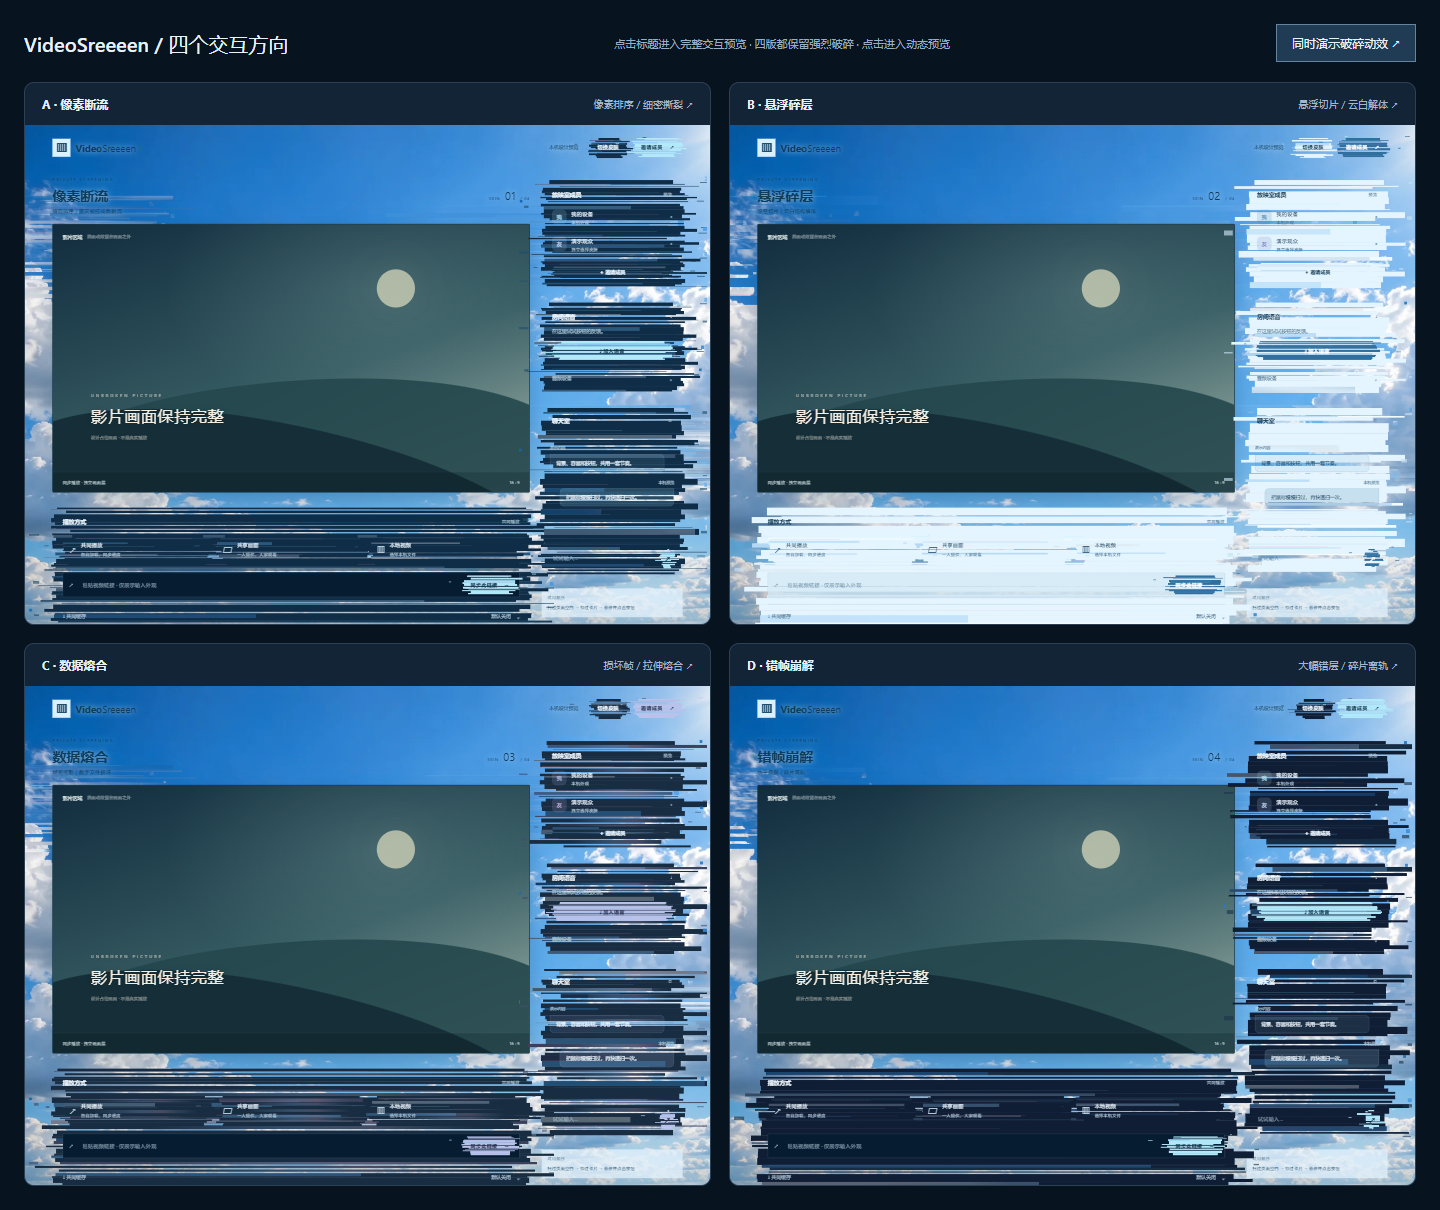
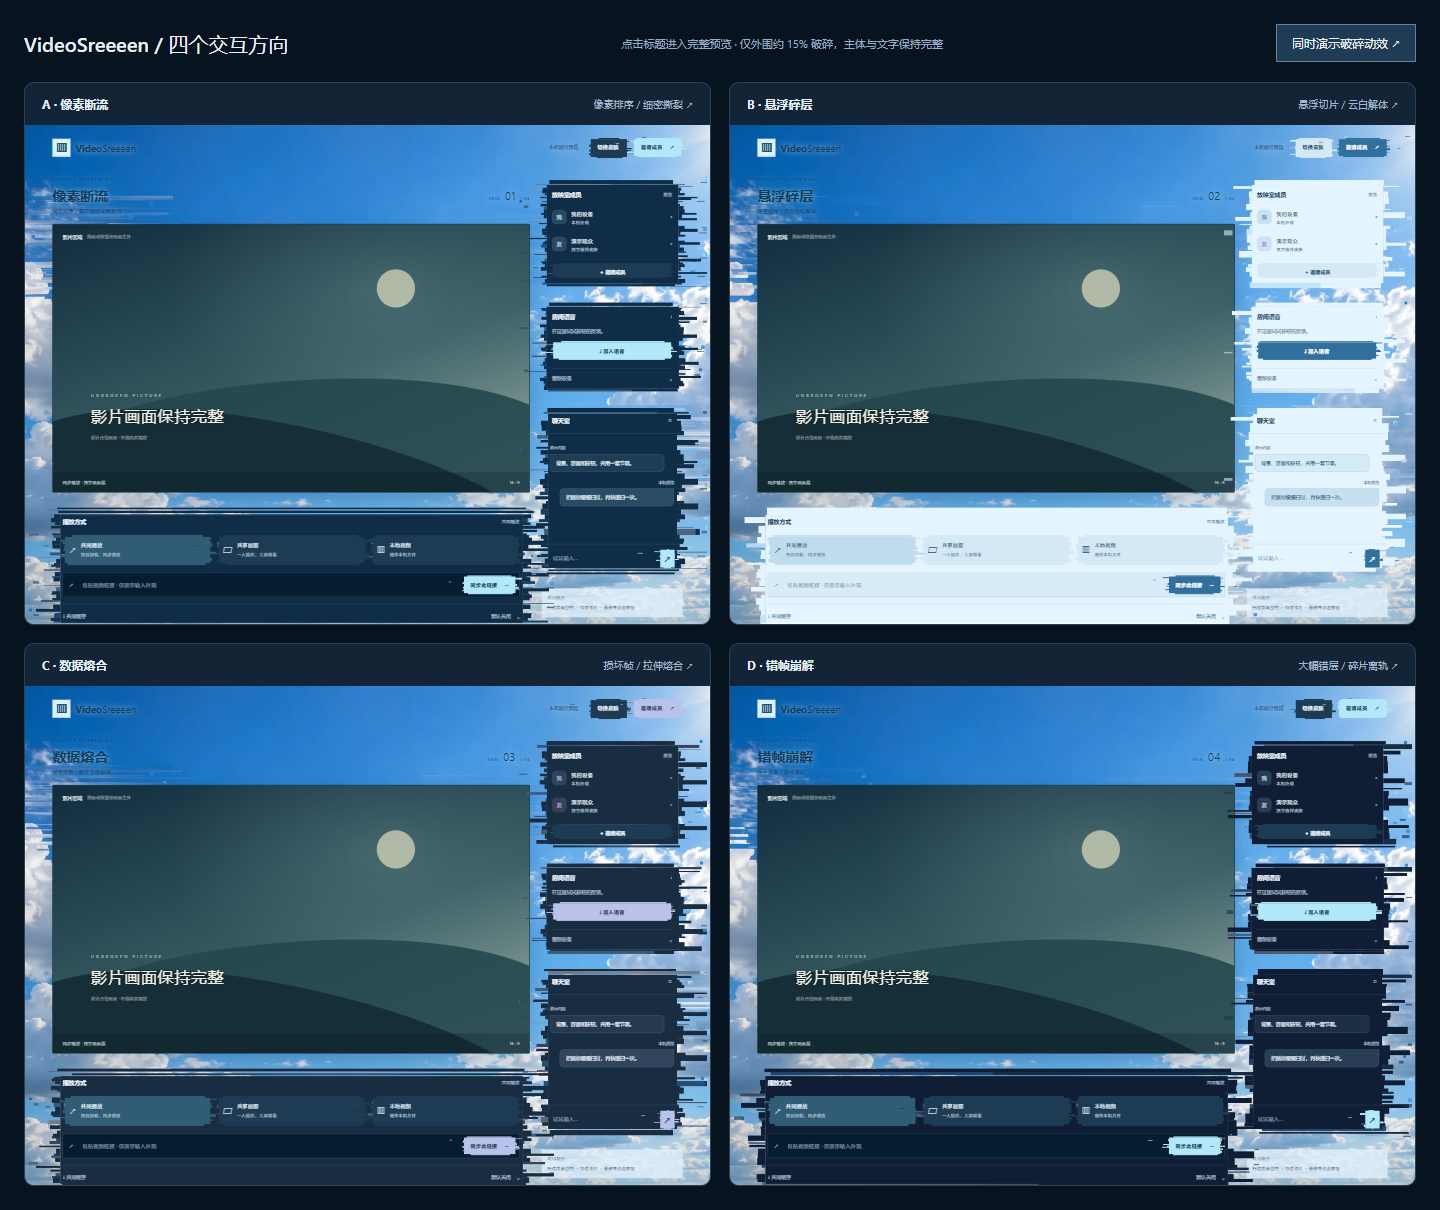
Limit glitch fragmentation to outer 15 percent and preserve readable bodies

diff --git a/docs/design/skin-directions/preview.js b/docs/design/skin-directions/preview.js
@@ -5,32 +5,32 @@
       subtitle: '横向排序 / 蓝天被拉成数据流',
       character: 'PIXEL SORTING',
       background: '照片被抽成细密横向像素流；扫过后断层在原处扩张、拉长、散去。',
-      surface: '深蓝容器本体切成不等高碎条，间隙透出天空，侧边悬浮脱落块。',
-      button: '十余层横切片交错拉伸，青蓝与淡红通道轻微分离。',
+      surface: '深蓝主体完整；仅外围 15% 横向切片，断口透出天空，少量碎块脱离。',
+      button: '文字与中心完整，外围 15% 碎条拉伸，轻微青红偏移。',
     },
     B: {
       name: '悬浮碎层',
       subtitle: '悬空切片 / 云白结构解体',
       character: 'SUSPENDED FRAGMENTS',
       background: '云层断成水平长片，带着独立惯性散开，保留晴空与自然日光。',
-      surface: '云白实体切为多层悬浮薄片；断口、长条和离体碎块同时可见。',
-      button: '白蓝条带依次崩开，向上下错层漂移后重组。',
+      surface: '云白主体保持连续；外围 15% 薄片悬浮，断口集中在轮廓附近。',
+      button: '白蓝边缘薄片漂移重组，按钮中心与文字保持完整。',
     },
     C: {
       name: '数据熔合',
       subtitle: '帧间拖影 / 数字文件损坏',
       character: 'DATAMOSH',
       background: '局部像素被重复拉伸、黏连成宽幅拖影，旧画面像损坏帧一样滞留。',
-      surface: '墨蓝面板撕成条带，局部内容材质被抽长，青紫熔合残影穿过本体。',
-      button: '碎条先拉成长尾、相互熔接，再回到可辨认的按钮轮廓。',
+      surface: '墨蓝主体完整，青紫拖影只在外围 15% 拉伸熔合，不穿过正文。',
+      button: '中心完整，边缘碎条拉成长尾、熔接后收束。',
     },
     D: {
       name: '错帧崩解',
       subtitle: '水平撕裂 / 碎片离轨',
       character: 'FRAME RUPTURE',
       background: '宽窄交错的断帧横贯天空，碎块沿不同方向脱离，带轻微 RGB 偏移。',
-      surface: '深色容器大范围错层；多组横条从本体滑脱，留出参差断口。',
-      button: '成组碎层错帧跳开，离体像素短暂悬浮，最后收束。',
+      surface: '主体轮廓清楚；外围 15% 成组错层，少量横条滑脱形成参差断口。',
+      button: '边缘成组碎层错帧跳开，中心与文字不参与切片。',
     },
   };
   const root = document.documentElement;
@@ -165,12 +165,29 @@
     if (impulses.length > 5) impulses.shift();
     wake();
   }
-  // The panel has no rectangular CSS fill: its body is separated, transparent slices.
-  // Hit targets and accessible text remain real DOM, independent of the visual pieces.
+  // Only a 15% perimeter band may break. The center and text backings stay intact.
+  // Hit targets and accessible text remain real DOM, independent of decoration.
   function fitPiece(p) {
     const b = p.el.getBoundingClientRect();
     p.w = b.width;
     p.h = b.height;
+    p.protected = [];
+    const walker = document.createTreeWalker(p.el, NodeFilter.SHOW_TEXT);
+    while (walker.nextNode()) {
+      const node = walker.currentNode;
+      if (!node.textContent.trim() || node.parentElement.closest('.fractured') !== p.el) continue;
+      const range = document.createRange();
+      range.selectNodeContents(node);
+      for (const r of range.getClientRects())
+        if (r.width && r.height)
+          p.protected.push({
+            x: r.left - b.left - 4,
+            y: r.top - b.top - 2,
+            w: r.width + 8,
+            h: r.height + 4,
+          });
+      range.detach();
+    }
     const dpr = Math.min(devicePixelRatio || 1, 1.25);
     p.c.width = Math.ceil((p.w + 96) * dpr);
     p.c.height = Math.ceil((p.h + 80) * dpr);
@@ -202,6 +219,30 @@
     const power = (variant === 'D' ? 1.2 : variant === 'B' ? 0.9 : 1) * (0.32 + energy);
     g.save();
     g.translate(48, 40);
+    const body = primary
+      ? accent
+      : button
+        ? light
+          ? p.el.classList.contains('active')
+            ? '#c0dcec'
+            : '#d4e9f5'
+          : p.el.classList.contains('active')
+            ? '#315c76'
+            : '#1d3b53'
+        : palette[0];
+    g.globalAlpha = 1;
+    g.fillStyle = body;
+    g.fillRect(0, 0, w, h);
+    // 15% of face AREA, rather than 15% on each side (which would cut 51%).
+    const edge = (w + h - Math.sqrt((w + h) ** 2 - 0.6 * w * h)) / 4;
+    const edgeX = edge,
+      edgeY = edge;
+    g.save();
+    g.beginPath();
+    g.rect(-48, -40, w + 96, h + 80);
+    g.rect(edgeX, edgeY, w - edgeX * 2, h - edgeY * 2);
+    g.clip('evenodd');
+    g.clearRect(-48, -40, w + 96, h + 80);
     for (let i = 0; i < strips; i++) {
       const r = noise(seed + i * 1.7),
         sign = i % 2 ? 1 : -1;
@@ -223,7 +264,7 @@
       const hh = Math.max(0.8, stripHeight - gap),
         tail = (i % 6 === 1 ? (button ? 8 : variant === 'C' ? 58 : 37) : 0) * power;
       g.globalAlpha = 1;
-      g.fillStyle = primary ? accent : palette[fault && i % 3 === 1 ? 1 : 0];
+      g.fillStyle = button ? body : palette[fault && i % 3 === 1 ? 1 : 0];
       g.fillRect(inset + shift, yy, w - inset * 2 + tail, hh);
       if ((!button && i % 5 === 1) || (button && i % 5 === 3)) {
         g.globalAlpha = primary ? 0.22 : light ? 0.25 : 0.32;
@@ -280,9 +321,20 @@
       }
     }
     g.restore();
+    // Protect text even when a label sits in the outer band (e.g. a panel heading).
+    g.globalAlpha = 1;
+    g.fillStyle = body;
+    g.save();
+    g.beginPath();
+    g.rect(0, 0, w, h);
+    g.clip();
+    for (const r of p.protected || []) g.fillRect(r.x, r.y, r.w, r.h);
+    g.restore();
+    g.restore();
     g.globalAlpha = 1;
     p.c.dataset.fragments = String(strips);
     p.c.dataset.energy = energy.toFixed(3);
+    p.c.dataset.edgeRatio = '0.15';
   }
   function feedback(p) {
     if (reduced.matches || !p) return;
@@ -437,6 +489,8 @@
     while (messages.children.length > 8) messages.firstElementChild.remove();
     input.value = '';
     messages.scrollTop = messages.scrollHeight;
+    const chatPiece = pieces.find((p) => p.el.matches('.chat'));
+    if (chatPiece) fitPiece(chatPiece);
   };
   window.addEventListener('hashchange', selectVariant);
   window.addEventListener('resize', resize);

diff --git a/docs/design/skin-directions/index.html b/docs/design/skin-directions/index.html
@@ -13,7 +13,7 @@
     <section class="review-bar" aria-label="方案选择">
       <div class="review-intro">
         <strong>外观实验室 <span>04 DIRECTIONS</span></strong
-        ><small>交互提案 · 演示内容 · 不连接真实房间</small>
+        ><small>外围约 15% 破碎 · 主体完整 · 仅演示，不连接房间</small>
       </div>
       <nav id="directions" aria-label="四版交互方案">
         <a href="#A" aria-current="true"><b>A</b> 像素断流</a><a href="#B"><b>B</b> 悬浮碎层</a

diff --git a/docs/design/skin-directions/board.html b/docs/design/skin-directions/board.html
@@ -96,7 +96,7 @@
   <body>
     <header>
       <h1>VideoSreeeen / 四个交互方向</h1>
-      <small>点击标题进入完整交互预览 · 四版都保留强烈破碎 · 点击进入动态预览</small>
+      <small>点击标题进入完整预览 · 仅外围约 15% 破碎，主体与文字保持完整</small>
       <button id="play-all" type="button">同时演示破碎动效 ↗</button>
     </header>
     <div class="grid">

diff --git a/docs/design/skin-directions/README.md b/docs/design/skin-directions/README.md
@@ -4,18 +4,18 @@
 
 打开 `index.html` 切换 A / B / C / D，或打开 `board.html` 并排比较。每版都能扫过背景、掠过卡片、悬停 / 点击按钮；「播放交互示范」会依次展示背景、整面容器材质与按钮动作。影片位置是 CSS 占位画面，成员和消息明确标记为演示数据；消息输入只留在当前页面。
 
-四版均以强烈的横向破碎为前提；上一轮的玻璃、柔光与胶片方向已移除。
+四版统一保留完整主体与清晰文字，破碎仅发生在按钮和容器外围约 15% 的带状区域。
 
-| 方案       | 背景                                       | 容器本体                                     | 按钮                            |
-| ---------- | ------------------------------------------ | -------------------------------------------- | ------------------------------- |
-| A 像素断流 | 天空照片被横向抽长，像素排序风格的细密断流 | 深蓝不等高切片，横向长尾、透明断口与离体碎块 | 13 层碎条交错拉伸，轻微青红偏移 |
-| B 悬浮碎层 | 自然日光下的云层撕成长片，分层漂移         | 云白实体解体成悬浮水平薄片                   | 蓝白碎层上下错开再重组          |
-| C 数据熔合 | 照片窄区反复拉长，模拟损坏帧拖影           | 墨蓝条带、青紫熔合残影和长尾                 | 拉伸黏连后重新收束              |
-| D 错帧崩解 | 宽窄交错的断帧与脱离的图像块               | 成组横条大幅错层、参差断口                   | 碎层离轨、悬浮与错帧复位        |
+| 方案       | 背景             | 容器边缘                       | 按钮边缘               |
+| ---------- | ---------------- | ------------------------------ | ---------------------- |
+| A 像素断流 | 细密横向像素拉伸 | 深蓝切片、透明断口、少量离体块 | 细碎横条，轻微青红偏移 |
+| B 悬浮碎层 | 云层长片分层漂移 | 云白薄片悬浮                   | 白蓝边缘错层重组       |
+| C 数据熔合 | 损坏帧拖影风格   | 青紫熔合残影与拉伸长尾         | 边缘拉长、黏连后收束   |
+| D 错帧崩解 | 宽窄交错的断帧   | 边缘成组错位、参差断口         | 少量碎层离轨后复位     |
 
-容器不再有完整矩形底色：本体由 22–46 个不等高片段组成，透明切口穿过整面，能直接看到天空；按钮由 13 层组成。断层集中在几组位置，不使用等距百叶窗纹理或碎点外框。自然天空照片也有静态破损，缩放仍覆盖全屏；关闭动态后保留破碎造型。
+主体是连续实色面：约 85% 的主体面积完全不参与撕裂、抽长、透明切口或 RGB 偏移；外围环形带约占总面积 15%，按容器长宽计算统一厚度，避免把“每边 15%”误算成切掉半个容器。靠近边缘的文字另有完整底色保护，真实文字、点击区域与整体轮廓保持清晰。漂浮碎片可以向外脱离，但不能穿过正文。影片画面保持完整。
 
-背景使用事件留下的独立冲量：记录经过位置、进入速度和初始时刻，之后按自身生命周期演变，不每帧重置到鼠标位置。按钮与容器进入后按该次速度、方向与独立相位展开、漂散、复位；持续扫过可再次触发，静止时不无限闪动。datamoshing 为界面材质的视觉模拟，不处理或损坏影片帧。真实文字与点击区域保持独立，影片区域不切碎。
+背景使用经过位置留下的独立冲量，记录速度与时刻后自行演变，不粘着指针。边缘动效根据该次方向、速度与独立相位展开后收束；静止时不无限闪动。关闭动态后保留静态破碎轮廓。datamoshing 是装饰材质的视觉模拟，不处理影片帧。
 
 ## 验证和资源
 
@@ -25,7 +25,7 @@
 & ./scripts/controlled.ps1 -File node.exe -Arguments @('scripts/skin-directions-check.mjs') -AllowGameThisRun -MinFreeMiB 0
 ```
 
-脚本在 loopback 静态服务与隔离 Edge 内检查四版背景响应 / 衰减、容器中央的真实透明切口、无矩形底色、片段数量与动态、按钮反馈、320 / 390 / 1440 / 2000 像素布局、减少动态效果模式和演示输入。所有请求限制为同一预览站点，检查不访问真实房间。截图位于 `.local/screenshots/skin-*.png`，证据 `.local/skin-directions-evidence.json`；窄屏检查不代表手机真机验收。
+脚本在 loopback 静态服务与隔离 Edge 内检查四版背景响应 / 衰减、容器中心完整不透明、真实边缘切口、边缘片段动态、按钮反馈、320 / 390 / 1440 / 2000 像素布局、减少动态效果模式和演示输入。所有请求限制为同一预览站点，检查不访问真实房间。截图位于 `.local/screenshots/skin-*.png`，证据 `.local/skin-directions-evidence.json`；窄屏检查不代表手机真机验收。
 
 预览不需要编译或新依赖。102,094 字节的 `sky.webp` 是内置 `image_gen` 生成的干净蓝天基底，仅转换为 WebP；原始 PNG 保留在本机生成素材目录。原来的故障背景资源和正式皮肤没有被覆盖。实际生成提示词如下：
 
